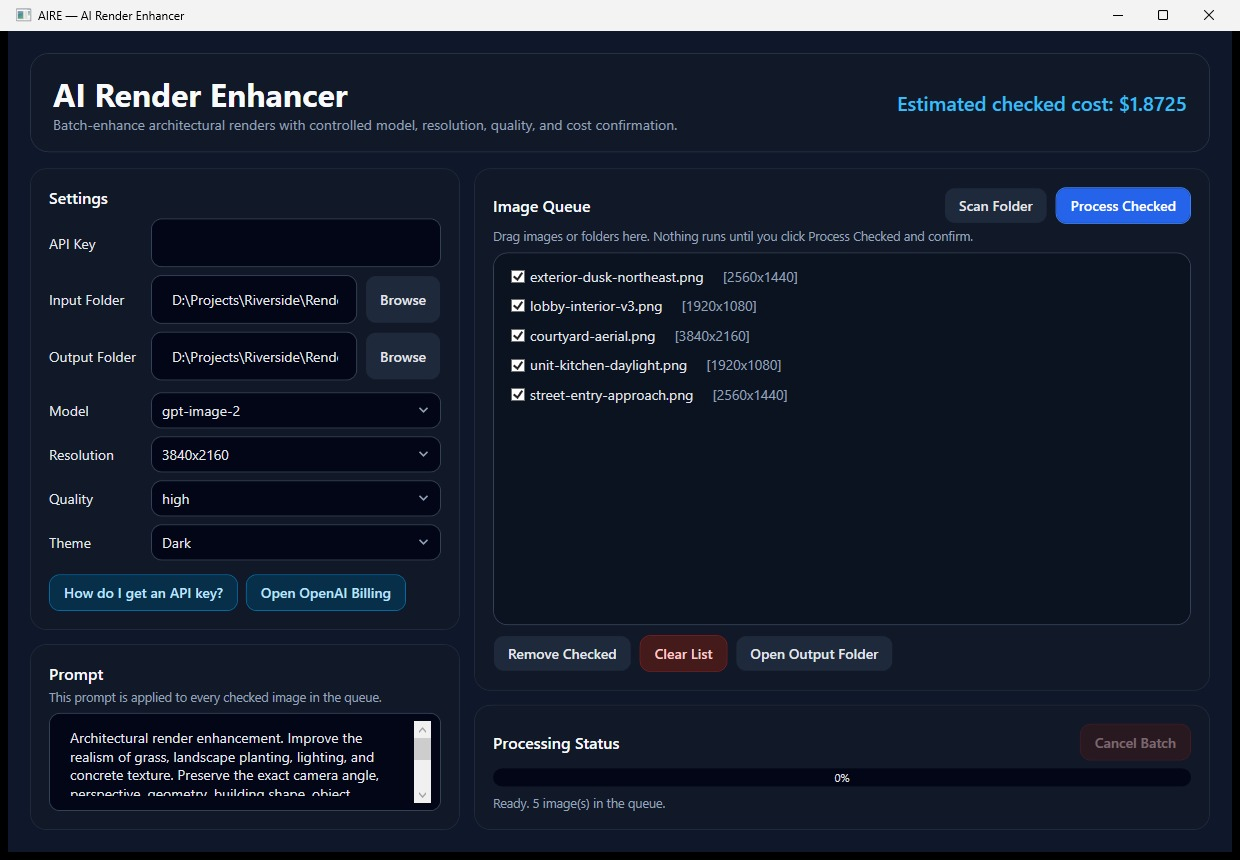
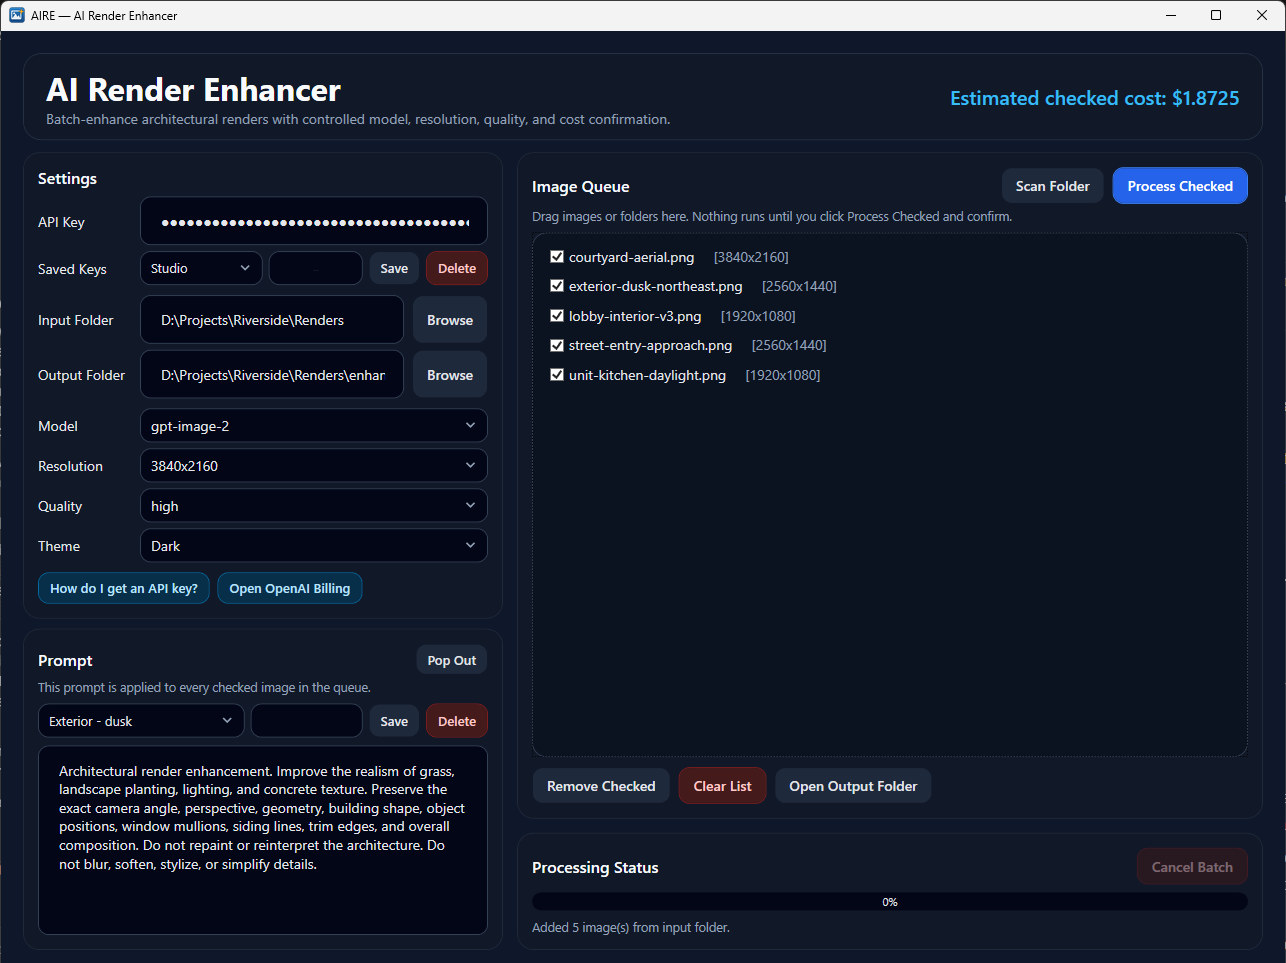
Readme: refresh the AIRE screenshot for v1.9.14, and cut the section down
The screenshot still showed the v1.9.11 window, so it predated everything
v1.9.14 added: the Saved Keys row, the saved-prompt dropdown, and the Pop Out
button. Recaptured from the standalone app in dark theme with the same staged
queue, so the estimate reads the same $1.8725 as before.

The prose had grown to ~800 words of things the picture already shows. Rewritten
as a short intro plus five bullets (~490 words), with the image moved up under
the intro so it does the explaining. Nothing was dropped that mattered: cost
confirmation, Cancel Batch, the CSV log, DPAPI key storage, the bridge tools and
the standalone app are all still there, just tighter. The release history in the
Status block is unchanged.

Changed region(s): [[0.0, 0.0, 1.0, 1.0]]

diff --git a/Readme.md b/Readme.md
@@ -113,57 +113,32 @@ permission prompts steal focus from Revit and UI-assist clicks silently miss.
 **AI Render Enhancer** has its own ribbon button and batch-enhances architectural renders through OpenAI's
 image models — photoreal grass, planting, lighting and concrete texture, with the camera angle, perspective,
 geometry, mullions, trim lines and overall composition held exactly as Revit produced them. It works on image
-**files**, not on the model, so it needs no open project and the button stays live even on Revit's Home
-screen.
-
-Point it at a folder and **Scan Folder**, or drag images and folders straight onto the list. Tick the ones you
-want and the estimate follows your ticks. `.png`, `.jpg`, `.jpeg` and `.webp` go in; `<name>_enhanced.png`
-comes out. AIRE skips its own outputs, so re-scanning a folder you have already enhanced won't enhance — or
-re-bill — them a second time. It runs on **`gpt-image-2`** by default, at 3840×2160 and high quality;
-`gpt-image-1.5`, `gpt-image-1` and `gpt-image-1-mini` are selectable too, but only gpt-image-2 offers the 4K
-and 2K tiers — the rest top out at 1536×1024. The default prompt is written for architectural renders and is
-yours to edit.
-
-**Prompts are worth keeping.** Once you have wording that works for a given kind of render, name it and
-**Save** it — it joins a dropdown you can pick from on any later run, on this machine, in Revit or in the
-standalone app. Saved prompts are written to disk immediately, not when the window closes. And because the
-prompt box shares the left column with the settings, there is a **Pop Out** button beside it: the same prompt
-in a resizable window, edited live in both places at once, for when you are working on a long one.
-
-**Nothing is spent without a confirmation.** Before a batch starts, AIRE shows the image count, model,
-resolution, quality and an estimated cost, and waits for a yes. **Cancel Batch** stops a run already under
-way — the image being generated at that moment may still complete and be billed, but nothing after it is
-attempted, and the log still covers everything done up to that point. Every batch writes
-`logs\enhancement_log_<timestamp>.csv` beside the outputs — one row per image with its input resolution, the
-settings used, status, elapsed time, estimated cost and any error message. Treat the figure as what it is: a
-token-based approximation for deciding whether to press go, not a bill. OpenAI's usage page is the authority,
-and an **Open OpenAI Billing** button goes straight there.
-
-Bring your own **OpenAI API key** — a built-in walkthrough covers creating one. It is encrypted per Windows
-user (DPAPI) in `%AppData%\Transom\aire.json`, never written in plain text, and goes nowhere but
-`api.openai.com`. If you work across more than one OpenAI account, save a **named key** for each and switch
-between them from the **Saved Keys** dropdown; every key is encrypted separately, and picking one makes it the
-key in use straight away — including for anything Claude runs through the bridge, so a batch can never quietly
-bill the account you just switched away from.
-
-Claude can drive AIRE over the same bridge: `aire_enhance` starts a batch and returns a job id plus the cost
-estimate immediately, `aire_job_status` polls progress, and `aire_cancel_job` stops a run — the same thing the
-window's **Cancel Batch** button does. The key is deliberately *not* a tool argument; the bridge reads it from
-your encrypted store, so it never passes through Claude, the shim or the socket. One batch runs at a time no
-matter which way it was started, so the window and Claude can't spend twice at once, and a batch Claude
-started reports its progress in the window as soon as you open it.
-
-**AIRE also runs without Revit.** It only ever touches image files and the OpenAI API, so the installer
-offers an optional Start Menu shortcut that opens the same window on its own — enhance a folder of renders
-without waiting for Revit and a model to load. Tick **AIRE standalone app** when installing; it goes to
-`%LocalAppData%\Transom\aire` by default and the installer's Browse button will put it elsewhere. It shares
-one settings file and one encrypted key with the ribbon version, so it is the same AIRE either way, and only
-one batch can run at a time across both.
+**files**, not on the model, so it needs no open project — and it runs without Revit at all: tick **AIRE
+standalone app** when installing and the same window gets a Start Menu shortcut of its own.
 
 <table>
-<tr><td><img src="docs/images/aire.jpg" alt="Transom AI Render Enhancer window: input and output folder pickers, OpenAI API key field, prompt box, model/resolution/quality selectors, a checkable queue of render images with their resolutions, the estimated cost for the checked images, and a progress bar" width="100%"></td></tr>
+<tr><td><img src="docs/images/aire.jpg" alt="Transom AI Render Enhancer window: an API key field with a Saved Keys dropdown, input and output folder pickers, model/resolution/quality selectors, a Prompt card with a saved-prompt dropdown and a Pop Out button, a checkable queue of render images with their resolutions, the estimated cost for the checked images, and a progress bar" width="100%"></td></tr>
 <tr><td><em><b>AI Render Enhancer</b> — the queue, the settings that drive cost, and the estimate for exactly what you have ticked.</em></td></tr>
 </table>
+
+- **Point and tick.** **Scan Folder**, or drag images and folders straight onto the list. `.png`, `.jpg`,
+  `.jpeg` and `.webp` go in; `<name>_enhanced.png` comes out. AIRE skips its own outputs, so re-scanning a
+  folder you have already enhanced won't re-bill it. Defaults are **`gpt-image-2`** at 3840×2160 and high
+  quality; the older `gpt-image-1.5`, `-1` and `-1-mini` are selectable but top out at 1536×1024.
+- **Nothing is spent without a confirmation.** The image count, model, resolution, quality and an estimated
+  cost are shown before a batch starts, and **Cancel Batch** stops one already under way. Every batch writes
+  `logs\enhancement_log_<timestamp>.csv` beside the outputs — a row per image with settings, status, elapsed
+  time and estimated cost. Treat the figure as an approximation for deciding whether to press go, not a bill;
+  **Open OpenAI Billing** goes to the authority.
+- **Prompts and keys are worth keeping.** Name a prompt that works and **Save** it, then pick it back out of
+  the dropdown on any later run; **Pop Out** edits the same text in a resizable window. Keys work the same
+  way — save one per OpenAI account and switch from **Saved Keys**, each encrypted separately.
+- **Bring your own key.** A built-in walkthrough covers creating one. It is encrypted per Windows user (DPAPI)
+  in `%AppData%\Transom\aire.json`, never written in plain text, and goes nowhere but `api.openai.com`.
+- **Claude can drive it** over the same bridge: `aire_enhance` starts a batch and returns a job id plus the
+  cost estimate, `aire_job_status` polls it, `aire_cancel_job` stops it. The key is deliberately not a tool
+  argument — the bridge reads it from your encrypted store, so it never passes through Claude or the socket.
+  One batch runs at a time no matter which way it was started.
 
 *AIRE is far newer than the schedule round-trip and has had much less mileage. Treat early batches as a
 trial, and check the first cost estimates against your real OpenAI usage.*
